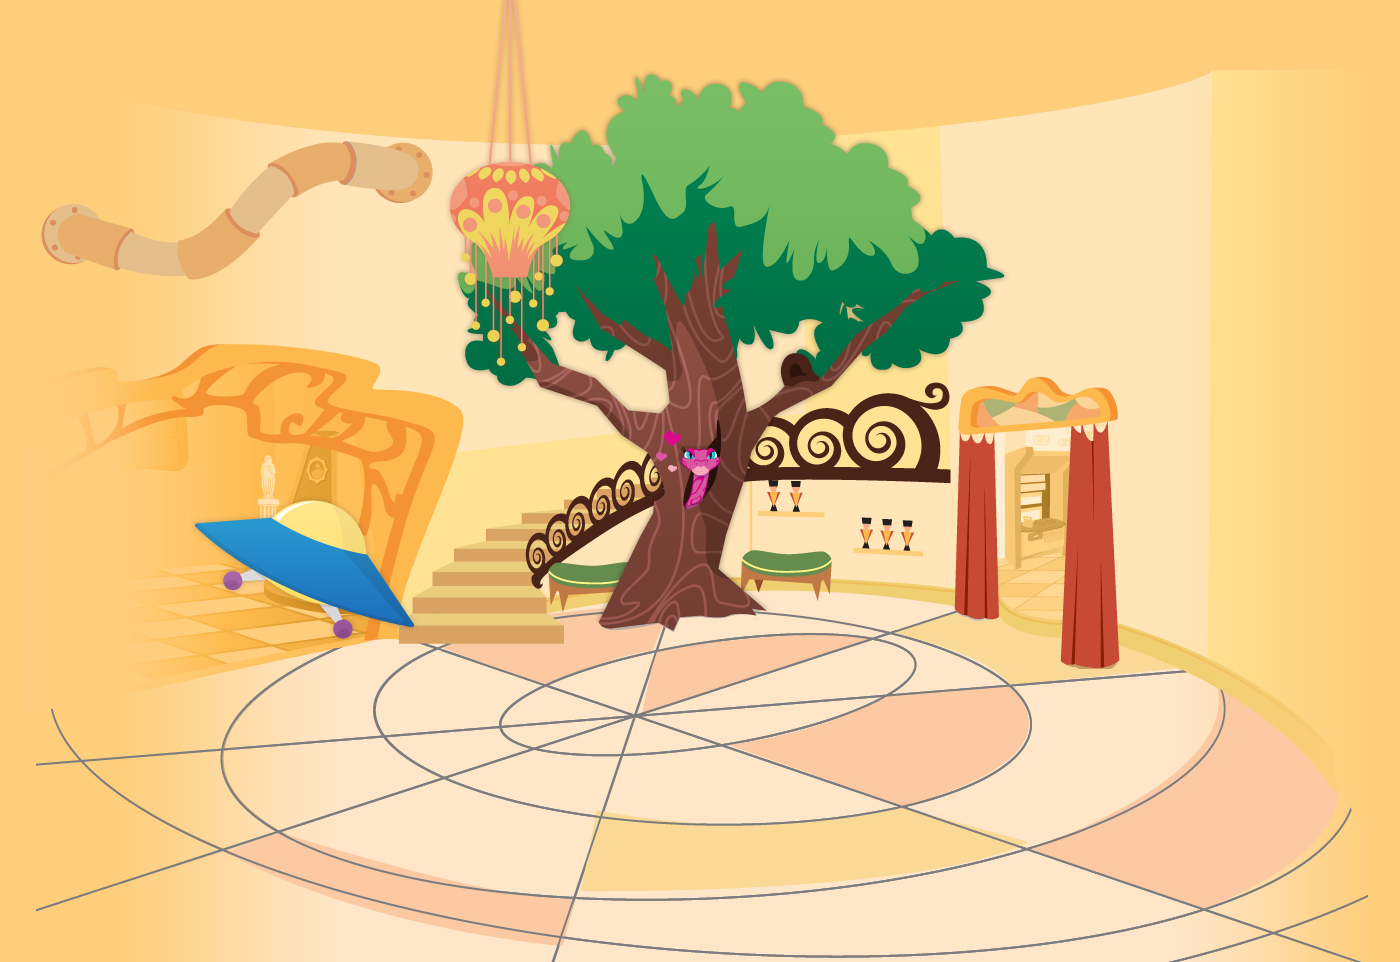
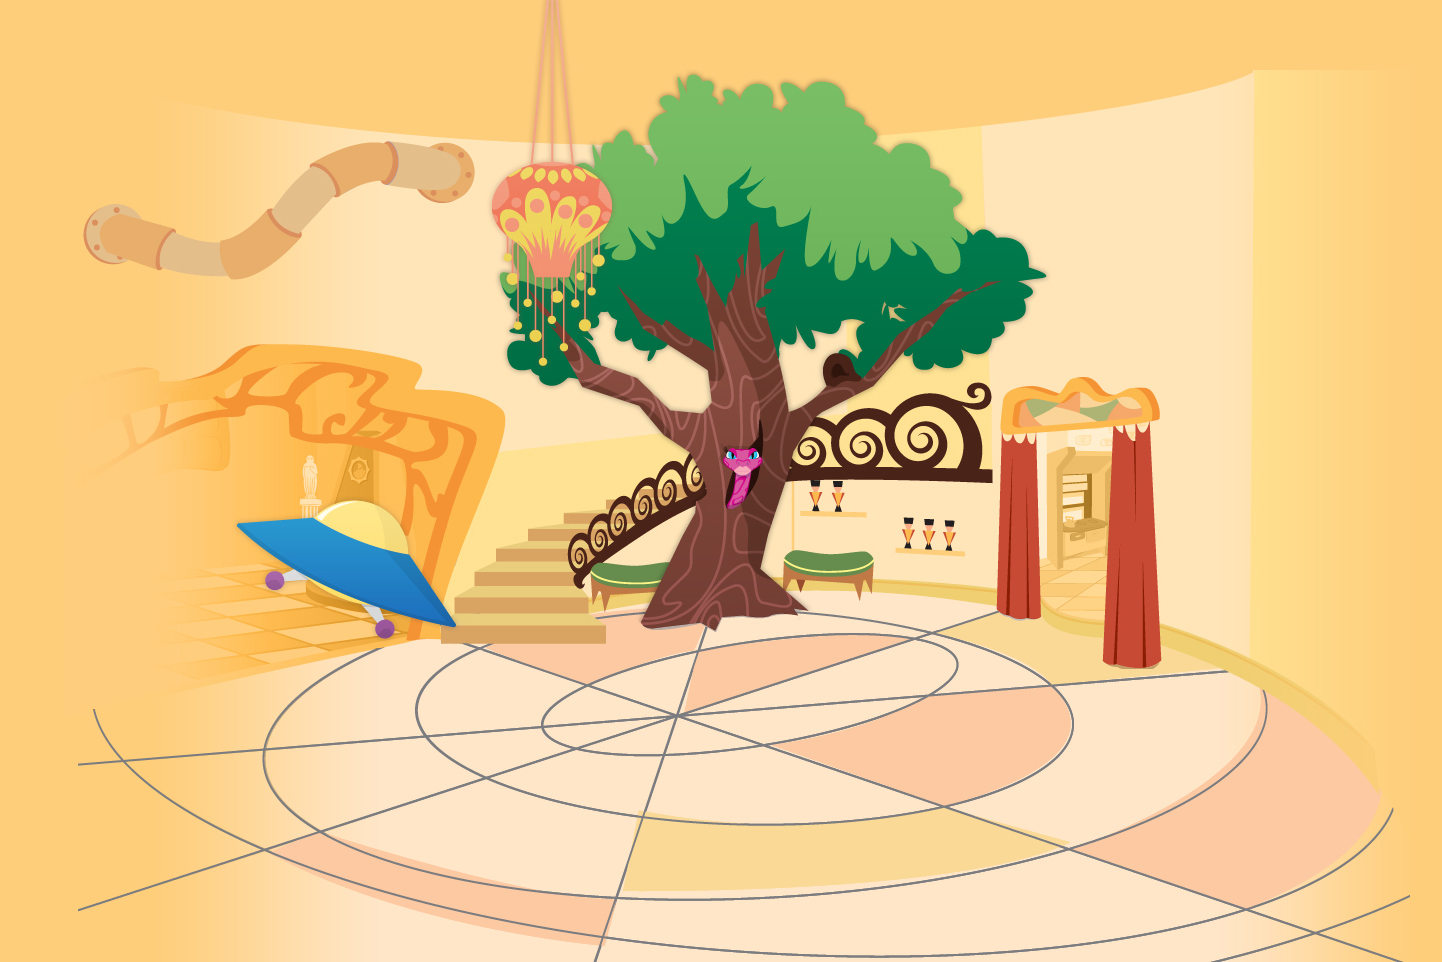
arvore castelo

diff --git a/web/portal/css/tvcultura/sites/castelo/arvore.css b/web/portal/css/tvcultura/sites/castelo/arvore.css
@@ -9,10 +9,10 @@ body { background:#fece7b; min-height: 970px; }
 .botao-celeste-over {z-index:1;width:181px; height:161px;position:absolute;top: 86px; right: 390px;background: url(/portal/images/capaPrograma/castelo/img-personagem-celeste-over.png) no-repeat;}
 
 .botao-lanaelara {z-index:0;cursor:pointer ;width:129px; height:205px;position:absolute;top:-120px; left:271px;background: url(/portal/images/capaPrograma/castelo/gif-lustre-fadas-lana-lara.gif) no-repeat right top;}
-.botao-lanaelara-over {z-index:1;width:170px; height:246px;position:absolute;top: -126px;left: 272px;background: url(/portal/images/capaPrograma/castelo/img-lana-lara-over.png) no-repeat;}
+.botao-lanaelara-over {z-index:1;width:170px; height:246px;position:absolute;top: -127px;left: 272px;background: url(/portal/images/capaPrograma/castelo/img-lana-lara-over.png) no-repeat;}
 
 .botao-joaodebarro {z-index:0;cursor:pointer ;width:76px; height:59px;position:absolute;top: 45px;right: 344px;background: url(/portal/images/capaPrograma/castelo/gif-joaodebarro-patativas-passarinho.gif) no-repeat right top ;}
-.botao-joaodebarro-over {z-index:1;width:279px; height:117px;position:absolute;top:45px; right:221px; background: url(/portal/images/capaPrograma/castelo/img-joaodebarro-patativas-over.gif) no-repeat;}
+.botao-joaodebarro-over {z-index:1;width:279px; height:117px;position:absolute;top: 47px; right: 220px; background: url(/portal/images/capaPrograma/castelo/img-joaodebarro-patativas-over.gif) no-repeat;}
 
-.botao-etevaldo {z-index:0;cursor:pointer ;width:222px; height:143px;position:absolute;top: 215px; left: 0;background: url(/portal/images/capaPrograma/castelo/gif-personagem-etevaldo.gif) no-repeat 24px 6px;}
+.botao-etevaldo {z-index:0;cursor:pointer ;width:231px; height:143px;position:absolute;top: 215px; left: 0;background: url(/portal/images/capaPrograma/castelo/gif-personagem-etevaldo.gif) no-repeat 45px 6px;}
 .botao-etevaldo-over {z-index:1;width:434px; height:558px;position:absolute;top: 89px; left:0; background: url(/portal/images/capaPrograma/castelo/img-personagem-etevaldo-over.png) no-repeat;}

diff --git a/web/portal/css/tvcultura/sites/castelo/hall.css b/web/portal/css/tvcultura/sites/castelo/hall.css
@@ -3,7 +3,7 @@ body { background:#ffc561; min-height: 970px; }
 #capa-site { height:963px; }
 #capa-site { *height:993px; }
 .tudo { height:680px; }
-
+.navegacao {position: absolute;left: 40px;}
 .botao-relogio {z-index: 0;cursor: pointer;width: 153px;height: 337px;position: absolute;top: 20px;left: 141px;background: url(/portal/images/capaPrograma/castelo/gif-personagem-relogio.gif) no-repeat 54px 168px;}
 .botao-relogio-over {z-index:1;width:200px; height:346px;position:absolute;top: 16px; left: 136px;background: url(/portal/images/capaPrograma/castelo/img-personagem-relogio-over.png) no-repeat;}
 .botao-relogio-over { *top:30px; }
